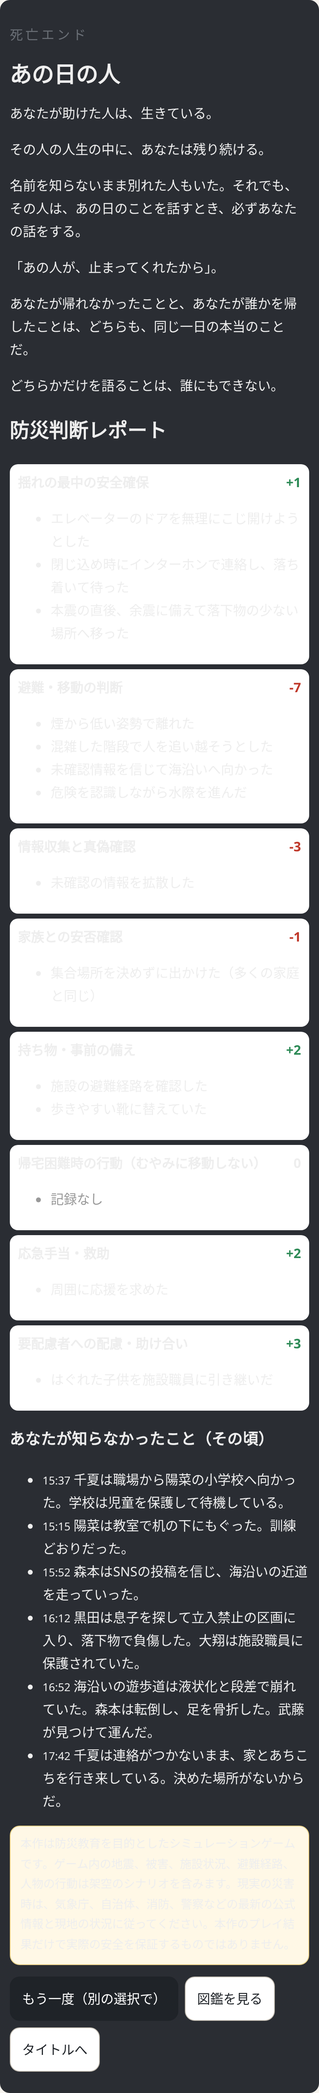
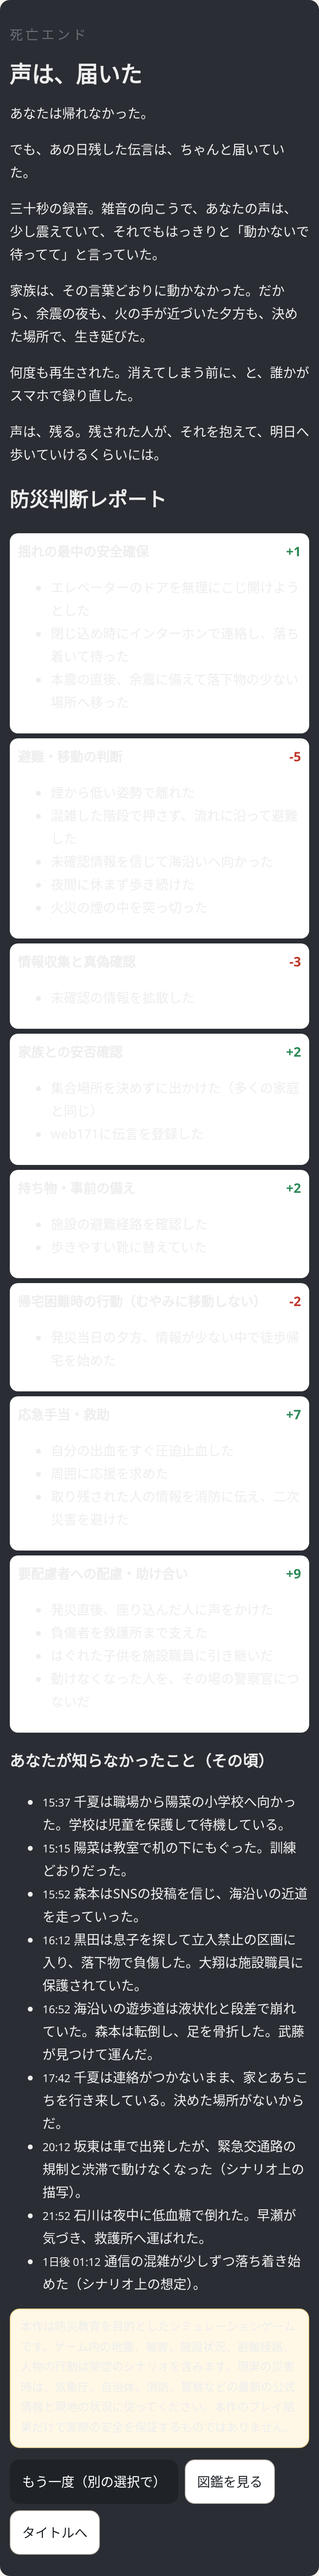
Stage 8: thicken chapters 2-3 to ~3.5k chars

diff --git a/src/data/scenes2.ts b/src/data/scenes2.ts
@@ -5,6 +5,17 @@ const C = (id: string, label: string, next: string, o: Partial<Choice> = {}): Ch
 
 // ===== 第3章 帰宅困難（2時間〜翌朝） =====
 export const ch3: Scene[] = [
+  S('c3_dusk', 3, 'crowd', [
+    ['', '日が、傾いていく。'],
+    ['', '広場の人の数は、減るどころか、増えていた。モールから出てきた人。駅から引き返してきた人。橋のたもとまで行って、戻ってきた人。'],
+    ['', '風が冷たくなってきた。昼間の服のままの人が、腕をさすっている。誰かが、売り場から出された段ボールを、地面に敷き始めた。それを見て、何人かが、同じようにした。'],
+    ['', '遠くの空に、黒い煙が、まだ一本、立ちのぼっている。その煙の根元に、何があるのか、誰も知らない。'],
+    ['', 'カラスが一羽、街灯のてっぺんにとまって、じっと人の群れを見下ろしていた。カラスにとっては、今日も、ただの夕方なのかもしれなかった。'],
+    ['', 'スマホの画面の時刻を見た。十七時を過ぎていた。ふだんなら、帰りの電車の中で、晩ごはんのことを考えている時間だった。'],
+    ['', '晩ごはん。その言葉を思い浮かべたとたん、お腹が鳴った。昼から何も食べていなかった。こんな時にも、体は、ちゃんとお腹をすかせる。それが、なんだか、悔しくて、少しだけ、ありがたかった。'],
+    ['', 'ポケットに、飴が一つ入っていた。いつ入れたのか覚えていない、レモン味の飴。口に入れると、すっぱさが、頭の芯まで届いた。'],
+    ['', '今夜、どこで眠るのか。そもそも、眠れるのか。考えたくない問いが、夕暮れと一緒に、足元から、ゆっくりとせり上がってくる。'],
+  ], { onEnter: { know: 'k_temp_facility' }, next: 'c3_hub' }),
   S('c3_hub', 3, 'crowd', [
     ['拓海', 'なあ。モールの奥に、まだ人が残ってるって。煙の向こうから声がした。'],
     ['拓海', '俺、戻る。昔、救命講習受けたことあるし。'],
@@ -16,6 +27,8 @@ export const ch3: Scene[] = [
   S('c3_rescue', 3, 'smoke', [
     ['', '濡らしたハンカチで口を覆い、低い姿勢で進む。'],
     ['', '倒れた棚の向こうに、若い女性が足を挟まれていた。'],
+    ['', '煙は、天井の近くに、厚い層を作っていた。低くしていれば、まだ、息ができる。目が痛い。涙が勝手にあふれてくる。'],
+    ['', '女性は、声を出す力も残っていないようだった。それでも、こちらに気づくと、片手を、小さく上げた。'],
     ['拓海', 'せーので持ち上げる！'],
   ], { choices: [
       C('lift', '二人で棚を持ち上げ、引き出す', 'c3_rescue2', { icon: '💪', effects: { time: 15, stamina: -15, risk: { kind: 'fire', level: 14, label: '煙を吸い、熱で腕を焼いた' }, helped: 'haruno', flag: 'rescued_haruno' } }),
@@ -32,6 +45,9 @@ export const ch3: Scene[] = [
     ['', 'それでも、人の流れは、橋の方へ向かっていた。「歩けば帰れる」。誰かがそう言うと、まわりの何人かが、うなずいた。'],
     ['', 'あなたの足も、一瞬、そちらへ動きかけた。家。家族。ベッド。帰りたい理由なら、いくらでもあった。'],
     ['宮内', '歩いて帰るのは、明日、状況が分かってからでも遅くありません！　今夜、道路は救急車と消防車のために空けてください！'],
+    ['', 'その言葉に、立ち止まる人がいた。立ち止まらない人もいた。どちらが正しいのか、その時のあなたには、まだ分からなかった。'],
+    ['', 'ホールの入口には、手書きの紙が貼られていた。「水・毛布あります」「トイレ使用可（流せません）」「携帯の充電は一人十五分」。マジックの字が、何人もの手で、書き足されていた。'],
+    ['', '入口の脇では、ボランティアらしい高校生が、名簿用の紙を配っていた。「お名前と、連絡先と……書ける方だけで、大丈夫です」。その声も、少し、震えていた。'],
     ['', '宮内の声は、かすれていた。もう、何時間も叫び続けている声だった。'],
   ], { info: ['i_fac_open', 'i_off_kitaku', 'i_sns_walk'], onEnter: { time: 60, know: ['k_stay', 'k_temp_facility'] }, choices: [
       C('stay', '一時滞在施設にとどまる', 'c3_hall', { icon: '🏢', effects: { loc: 'aomi_hall', flag: 'stay_decided', time: 20, report: { cat: 'stay', score: 3, note: '一時滞在施設にとどまる判断をした' } } }),
@@ -43,6 +59,9 @@ export const ch3: Scene[] = [
     ['', 'ホールの床に、段ボールが敷かれていく。毛布と水が配られる。'],
     ['坂東', 'おい、俺は車で来てんだ。そこどけ、出口側は俺の場所だ！　家に帰るんだよ！'],
     ['', '男が職員の宮内につめ寄っている。'],
+    ['', 'ホールの天井は高く、声がよく響いた。坂東の怒鳴り声が、天井に跳ね返って、何倍にもなって降ってくる。近くにいた子どもが、母親の胸に顔を埋めた。'],
+    ['', '宮内は、首から「区職員」の名札を下げていた。その名札の紐が、ねじれていた。直す暇もなかったのだろう。'],
+    ['', '坂東の手には、車のキーが握られていた。キーホルダーに、色あせたお守りが一つ。「交通安全」。'],
   ], { onEnter: { water: 20, item: 'blanket', stamina: 10, flag: 'supplied', unflag: 'walking' }, choices: [
       C('calm', '「奥さんのことですか」と話を聞く', 'c3_hall2', { icon: '👂', effects: { flag: 'calmed_bando', npc: { id: 'bando', trust: 20 }, know: 'k_traffic', report: { cat: 'care', score: 2, note: '不安から怒る人の話を聞いた' } }, result: '坂東の妻は入院中だった。車は緊急交通路の妨げになるかもしれない——宮内の説明を、坂東は黙って聞いた。' }),
       C('argue', '「みんな同じだろ！」と怒鳴り返す', 'c3_hall2', { icon: '😠', effects: { mental: -5, npc: { id: 'bando', trust: -20 } } }),
@@ -79,6 +98,8 @@ export const ch3: Scene[] = [
   S('c3_walk1', 3, 'liquefaction', [
     ['', '有明方面。歩道のあちこちから砂が噴き出し、マンホールが突き出している。'],
     ['', '人の列が、黙々と東へ歩いていく。'],
+    ['', '誰も、しゃべらない。靴底が泥を踏む音と、遠くのヘリの音だけが続く。スーツの男性。ハイヒールを手に持って裸足で歩く女性。ベビーカーを押す父親。'],
+    ['', '歩道の端に、誰かが段ボールに書いた紙が貼ってあった。「この先　液状化　足元注意」。マジックの字が、雨でもないのに、にじんでいた。'],
     ['武藤', '（ずぶ濡れの若者を背負って）……そこの人、手ぇ貸してくれ。足が折れてる。'],
   ], { onEnter: { loc: 'ariake', time: 60, risk: { kind: 'liquefaction', level: 10, label: '噴砂の段差でつまずいた' }, know: 'k_liquefaction' }, alt: [{ if: { preset: 'student' }, goto: 'c3s_walk' }, { if: { preset: 'parent' }, goto: 'c3p_walk' }], choices: [
       C('help_muto', '若者（森本）を一緒に救護所まで運ぶ', 'c3_walk2b', { icon: '🤝', if: { flag: 'morimoto_went_shore' }, effects: { time: 40, stamina: -15, helped: 'morimoto', npc: { id: 'muto', trust: 30 }, report: { cat: 'aid', score: 2, note: '負傷者の搬送を手伝った' } } }),
@@ -106,6 +127,8 @@ export const ch3: Scene[] = [
   // --- aid route ---
   S('c3_aid', 3, 'aid', [
     ['', '臨時の救護所。ブルーシートの上に負傷者が並ぶ。'],
+    ['', '手首に、色のついたタグが巻かれている人がいる。赤。黄。緑。あとから、それがトリアージのタグだと知った。（色分けの運用は要監修）'],
+    ['', 'ブルーシートの端で、若い男性が、自分の腕の包帯をぼんやり見つめていた。包帯の上に、マジックで時刻が書いてある。「15:20」。'],
     ['早瀬', 'ここでは、重い人から順に診ます。あなたは記録と水をお願い。'],
     ['', '投光器が一台、発電機の低い唸りとともに点いた。白い光の輪の中だけが、世界のすべてみたいに見える。輪の外の暗がりから、次の担架が、また次の担架が、現れては光の中に置かれていく。'],
     ['', '運ばれてきた男性は、数時間、瓦礫に脚を挟まれていたという。顔色は悪くない。本人も「平気だ、歩ける」と言う。だからこそ怖いのだ、と早瀬の目が言っていた。'],

diff --git a/src/data/scenes1.ts b/src/data/scenes1.ts
@@ -286,8 +286,12 @@ export const ch2: Scene[] = [
   ], { onEnter: { flag: 'fire_spread', risk: { kind: 'fire', level: 8, label: '煙を少し吸い込んだ' } }, next: 'c2_saeki' }),
   S('c2_saeki', 2, 'injured', [
     ['', '倒れた陳列棚の横に、高齢の男性がうずくまっている。ズボンの裾が赤い。'],
+    ['', '男性のそばに、杖が一本、転がっていた。黒い、使い込まれた木の杖。持ち手のところだけ、手の形にすり減って、白く光っている。'],
+    ['', '買い物かごの中身が、床に散らばっていた。一人分の惣菜。一人分の牛乳。一人分の、小さな花束。'],
     ['佐伯', '……大丈夫だ。自分でなんとかする。迷惑はかけん。'],
     ['', '出血が床に広がっている。'],
+    ['', '男性は、ズボンの裾を自分の手で押さえていた。指の間から、赤いものが、じわじわとにじみ出てくる。押さえ方が、弱い。力が入らないのだ。'],
+    ['', '周りの人たちは、ちらりと見て、通り過ぎていく。誰もが、自分の行き先で、手一杯だった。'],
   ], { choices: [
       C('press', 'ハンカチで傷口を直接強く押さえる', 'c2_saeki_ok', { icon: '🩹', effects: { useItem: 'handkerchief', time: 15, helped: 'saeki', flag: 'stayed_saeki', npc: { id: 'saeki', trust: 30 }, know: 'k_bleeding', report: { cat: 'aid', score: 3, note: '負傷した高齢者を直接圧迫で止血した' } }, hint: '自分の避難は遅れる' }),
       C('call', '大声で医療関係者を探す', 'c2_saeki_ok', { icon: '📣', effects: { time: 10, flag: 'stayed_saeki', npc: { id: 'saeki', trust: 10 }, report: { cat: 'aid', score: 2, note: '周囲に応援を求めた' } } }),
@@ -318,6 +322,9 @@ export const ch2: Scene[] = [
     ] }),
   S('c2_info', 2, 'phone_sns', [
     ['', 'スマホを見る。電波は1本。タイムラインが異様な速さで流れていく。'],
+    ['', '「拡散希望」「拡散希望」「拡散希望」。同じ四文字が、滝のように流れていく。燃えるビルの写真。倒れた橋の写真。どれも、どこかで見たような構図だった。'],
+    ['', '写真の一枚は、空の色がおかしかった。夕方のはずなのに、真昼の青だった。——いつ撮った写真なのだろう。そもそも、今日の写真なのだろうか。'],
+    ['', '（作中のSNS投稿はすべて架空です。実際の災害時も、発信元と日時を確かめてください）'],
     ['森本', 'おい見ろよ！有明のでかい会場が燃えてるって！橋も落ちたって！海沿いから回れば早い、行くぞ！'],
   ], { info: ['i_sns_bridge', 'i_sns_fire', 'i_off_tsunami', 'i_fac_stay', 'i_sns_water'], onEnter: { time: 10, battery: -3 }, choices: [
       C('verify', '投稿の発信元と時刻を確かめ、公式の発表と見比べる', 'c2_morimoto', { icon: '🔎', effects: { flag: 'verified_info', know: ['k_official', 'k_rumor', 'k_tsunami'], report: { cat: 'info', score: 3, note: 'SNS投稿の発信元・時刻を確認し、公式情報と照合した' } } }),
@@ -326,6 +333,8 @@ export const ch2: Scene[] = [
     ] }),
   S('c2_morimoto', 2, 'phone_sns', [
     ['森本', '兄貴が有明にいるんだよ！待ってらんねえ！'],
+    ['', '森本の手の中で、スマホの画面が割れていた。ひびの向こうに、兄とのトーク画面が見える。最後のメッセージは、昼の「今日飲み行く？」だった。既読は、ついていない。'],
+    ['森本', '既読つかねえんだよ……あいつ、いつも秒で返すのに。'],
     ['', '海沿いの遊歩道は、さっき段差と泥水が見えた場所だ。それに「津波注意報（ゲーム内の架空情報）」が出ている。'],
   ], { choices: [
       C('stop', '「その情報、発信元が分からない。海沿いは注意報が出てる」と止める', 'c2_wait1', { icon: '✋', if: { flag: 'verified_info' }, effects: { flag: 'stopped_morimoto', helped: 'morimoto', npc: { id: 'morimoto', trust: 20 }, report: { cat: 'info', score: 2, note: '誤情報で危険な場所へ向かう人を止めた' } } }),
@@ -343,6 +352,8 @@ export const ch2: Scene[] = [
   S('c2_contact', 2, 'phone_171', [
     ['', '{fam1}に電話をかける。'],
     ['', '「ただいま、大変電話が混み合っており……」'],
+    ['', 'もう一度。同じ声。もう一度。同じ声。録音の女性の声は、どこまでも丁寧で、どこまでも、遠かった。'],
+    ['', '周りでも、何十人もの人が、同じ録音を聞いているのだろう。この広場じゅうに、同じ「大変混み合っており」が、見えない雨のように降っている。'],
     ['', 'もう一度。同じ音声。'],
   ], { onEnter: { time: 5, battery: -2, know: 'k_comm' }, choices: [
       C('171_stay', '171に「無事。お台場の施設にいる。むやみに動かない」と録音する', 'c2_fam_cut', { icon: '☎', effects: { msg: { to: 'fam1', channel: '171', text: '{me}です。無事。お台場にいます。安全な場所にとどまって、落ち着いたら連絡する。{fam2}をお願い。' }, flag: 'stay_decided', know: 'k_171', report: { cat: 'contact', score: 3, note: '171に居場所と方針を録音した' } } }),
@@ -376,6 +387,7 @@ export const ch2: Scene[] = [
     ['', '広場のベンチに、誰かが置いていったコンビニの袋。中には、手つかずのおにぎりが二つ。持ち主は、戻ってこなかった。'],
     ['', '空の色が、少しずつ変わり始めていた。午後の青から、夕方の、薄い灰色へ。いつもなら、きれいだと思う時間だった。'],
     ['', 'ビルの壁面の大型ビジョンは、消えたままだった。あの画面が、何も映さないのを、初めて見た。黒い四角は、空に開いた穴のように見えた。'],
+    ['', '誰かが、ラジオを持っていた。小さな手回しのラジオ。その周りに、自然と人の輪ができた。雑音の向こうから、落ち着いたアナウンサーの声が、「落ち着いて行動してください」と繰り返していた。'],
     ['', 'スマホのバッテリーは、もう、半分を切っていた。（以降の運行・道路情報はゲーム内の架空情報です）'],
-  ], { onEnter: { time: 60 }, chapterEnd: true, lesson: ['k_comm', 'k_171', 'k_official', 'k_bleeding', 'k_fire_initial', 'k_tsunami'], next: 'c3_hub' }),
+  ], { onEnter: { time: 60 }, chapterEnd: true, lesson: ['k_comm', 'k_171', 'k_official', 'k_bleeding', 'k_fire_initial', 'k_tsunami'], next: 'c3_dusk' }),
 ];

diff --git a/COUNTS.md b/COUNTS.md
@@ -43,3 +43,8 @@
 - 第1章到達時平均: worker 3,047 / student 2,982 / parent 3,045字
 - 追加: c1w_wait / c1s_wait / c1p_wait（ルート別の待機場面・各2択、危険なし）、c1_eew・c1_friend・c1_friend_pa・c1_selfcheck ほかに描写を追加
 - 生存者平均: 74.8 / 70.8 / 72.4分、10エンディングすべて到達
+
+## 段階8（第2・3章を約3,500字へ）
+- 第2章: 2,830〜2,860 → 3,521〜3,549字、第3章: 2,530〜2,730 → worker 3,471 / student 3,580 / parent 3,570字
+- 追加: c3_dusk（夕暮れの広場・共通）。c2_saeki / c2_info / c2_morimoto / c2_contact / c2_end、c3_announce / c3_hall / c3_walk1 / c3_aid / c3_rescue に描写を追加
+- 生存者平均: 78.6 / 74.4 / 75.9分、死亡率 24.2%、10エンディングすべて到達

diff --git a/KNOWN_ISSUES.md b/KNOWN_ISSUES.md
@@ -24,3 +24,6 @@
 
 ## 段階7
 - c1_selfcheck の「興奮中は痛みに気づきにくい」、c1w_wait の学校引き渡しルールは「要監修」（学校ごとに異なる）。
+
+## 段階8
+- c3_aid のトリアージタグの色分け運用は「要監修」。c2_info の注記で、作中のSNS投稿はすべて架空と明示。
